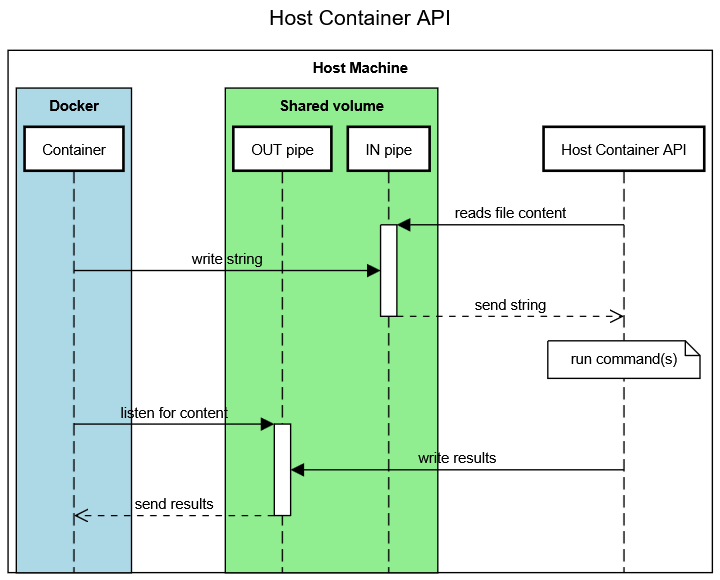
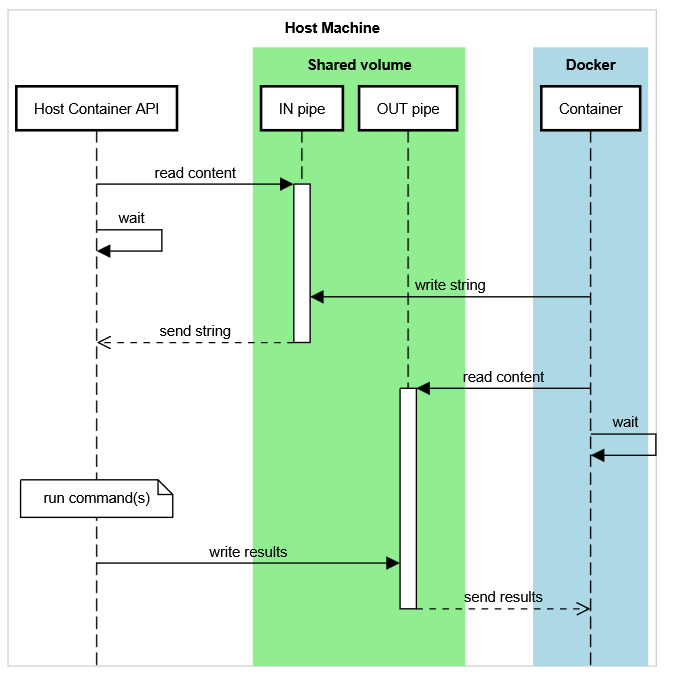
Updates README and diagram.

diff --git a/README.md b/README.md
@@ -1,19 +1,41 @@
 # Host Container API
 
-This project reads strings from a named pipe, runs a command and writes the output
-to another named pipe. Intended to be used with a Docker service that requires
-data from the host machine (for home servers). This executes on the host machine,
-not a Docker container.
+Run commands in the host machine from a Docker container.
 
-Linux only. Use at your own risk.
+This is a python script running on the host machine that is listening to a named pipe,
+runs prepared commands and sends the response to another pipe. 
 
-![Communitation diagram](resources/diagram.png "Communitation diagram")
+Intended to be used in home servers requiring host data.
 
-# Data format contract
+![Sequence diagram](resources/diagram.png "Sequence diagram")
 
-## Request
+Do not install anywhere near production.
 
-This program expects content written to the named pipe to follow this format:
+Tested on Debian. May run on MacOS.
+
+# Installation
+
+```shell
+git clone <repo>
+cd <repo>
+python3 -m venv venv
+source venv/bin/activate
+pip install -r requirements.txt
+```
+
+To run the program, execute
+```shell
+cd <repo>
+source venv/bin/activate
+python listen.py
+```
+
+*TODO: add a script to ensure constant execution*
+
+# Data format
+
+For **incoming requests**, all Docker containers should write to the same named pipe
+configured in `config.yaml` following this format:
 
 ```txt
 <pipe-name>:<command-name>
@@ -27,9 +49,11 @@ command-name
 is a class extending `AbstractCommand` that has a `name`
 property that has to be used to execute said class.
 
-## Response
+---
 
-After executing a command, the output will follow this JSON format:
+All **responses** to requests are written to the same directory configured in
+`config.yaml`, using the `pipe-name` received in the request as the pipe name.
+The content will always be a JSON-formatted string with this format:
 
 ```json
 {
@@ -43,20 +67,45 @@ success
 : true or false
 
 message
-: empty if `success` is true, else will contain some description
+: empty if `success` is true, otherwise will contain some description
 
 data
 : the command output
 
 # How to add custom commands
+The `commands` folder is git-ignored, so custom commands can be added without
+losing the ability to upgrade.
 
-Create a python class extending the `AbstractCommand` class and place it 
-inside the `commands` folder. The program will automatically read it from there. 
+1. Create a python class inside the `commands` folder
+2. Extend the `AbstractCommand` class
+3. Implement the abstract method and property required
+4. Optionally, run `python list-commands.py` to see if the command is listed
+5. Try the command using a pipe name and the `name` property 
 
+Example 
+
+`/commands/ExampleCommand.py`
 ```python
 from lib.AbstractCommand import AbstractCommand
 
+class ExampleCommand(AbstractCommand):
+    name = "example-command"
 
-class CustomCommand(AbstractCommand):
-    name = "custom-command"
+    def run(self):
+        return "this is the response"
+```
+
+Then run the `listen.py` file in one terminal, and in another run: 
+```shell
+echo "my-custom-pipe:example-command" > pipes/in.pipe
+cat "my-custom-pipe"
+```
+
+It will display:
+```json
+{
+  "success": true,
+  "message": "",
+  "data": "this is the response"
+}
 ```
